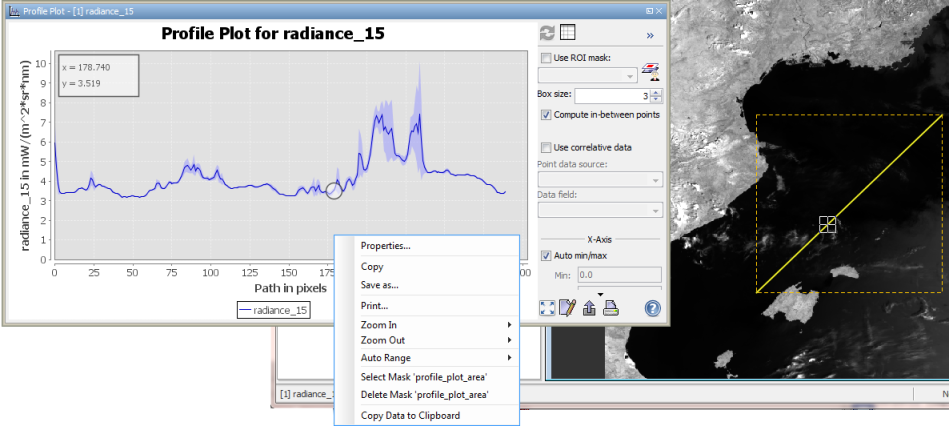
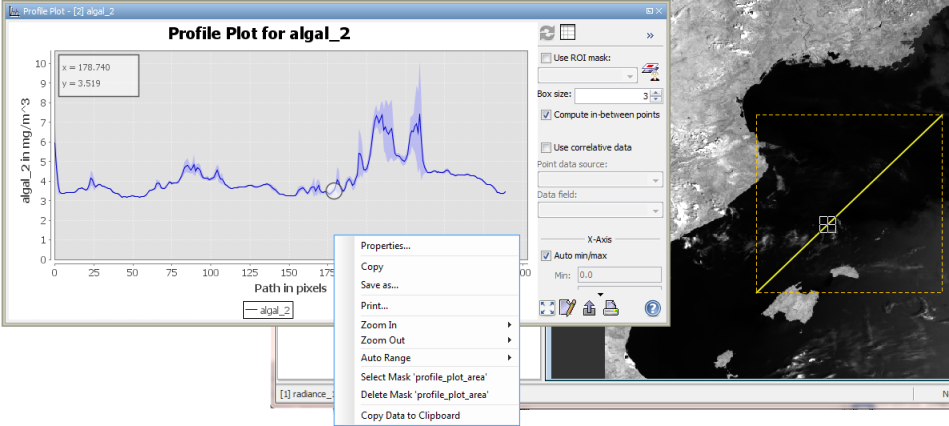
using 'algal_2' instead of 'radiance_15' in help

diff --git a/beam-help/src/main/resources/doc/help/visat/ProfilePlotDialog.html b/beam-help/src/main/resources/doc/help/visat/ProfilePlotDialog.html
@@ -53,7 +53,7 @@
     length,
     that is, for a path containing 300 pixels there are 300 x-values. The domain axis is determined by the currently
     selected band. The plot displays the value of the currently selected band along the bounds of a geometry; in case of
-    Screenshot 1, the values of <i>radiance_15</i> along a transect are displayed.
+    Screenshot 1, the values of <i>algal_2</i> along a transect are displayed.
 </p>
 
 <h5>Standard deviation</h5>
@@ -70,7 +70,7 @@
     The profile plot can be run in a mode that allows the user to map the current position within the band image to the
     position within the plot. This mode is entered when the user clicks into the plot, and left when the user clicks
     into the tool window, but somewhere outside the plot. In Screenshot 1, the current position within the image is at
-    pixel #178 of the transect, where the value of <i>radiance_15</i> is 3.519.
+    pixel #178 of the transect, where the value of <i>algal_2</i> is 3.519.
 </p>
 
 <h4>Profile plot for correlative data</h4>
